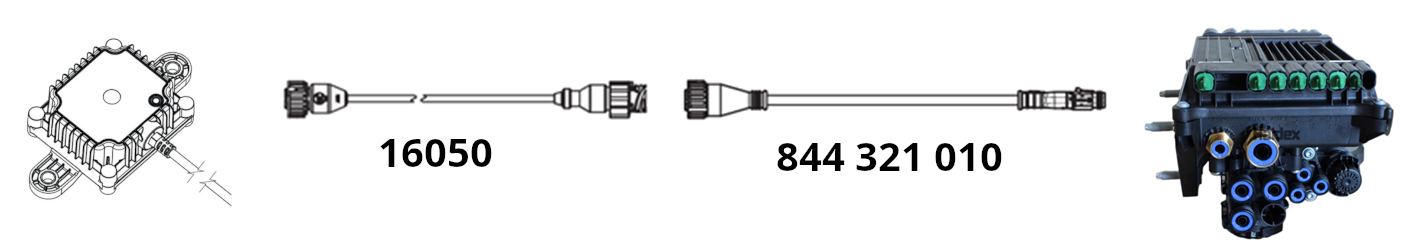
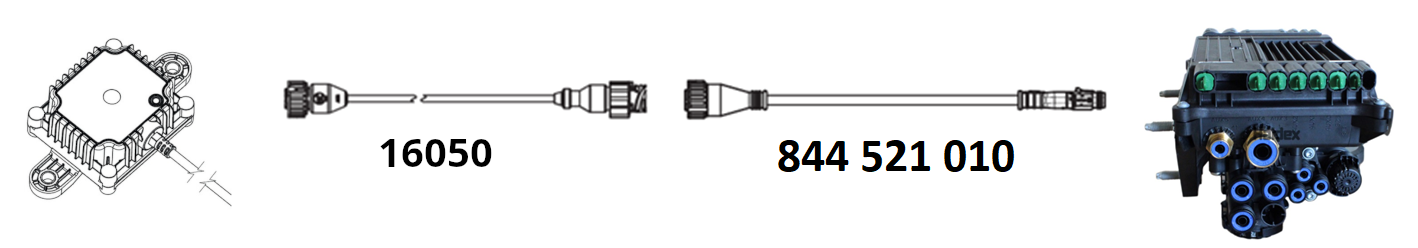
Updated Haldex cable partnumber

Changed region(s): [[0.5275, 0.5645, 0.7137, 0.7056]]

diff --git a/docs/receiver/receiver_enclosure.md b/docs/receiver/receiver_enclosure.md
@@ -150,13 +150,13 @@ For aftermarket installations, any free AUX port can be used. The installer must
 
 #### EU-R141 Communication
 
-For R141 compliance, one must use the AUX port. The installer must use the cable **844 321 010** from Haldex, connected to our cable **16050**.
+For R141 compliance, one must use the AUX port. The installer must use the cable **844 521 010** from Haldex, connected to our cable **16050**.
 
 ![Cable_Haldex](images/Haldex_Installation.png){ width="800px"}
 
 #### Power only
 
-For aftermarket installations, any free AUX port can be used. The installer must use the cable **844 321 010** from Haldex, connected to our cable **16050**.
+For aftermarket installations, any free AUX port can be used. The installer must use the cable **844 521 010** from Haldex, connected to our cable **16050**.
 
 ![Cable_Haldex](images/Haldex_Installation.png){ width="800px"}
 
